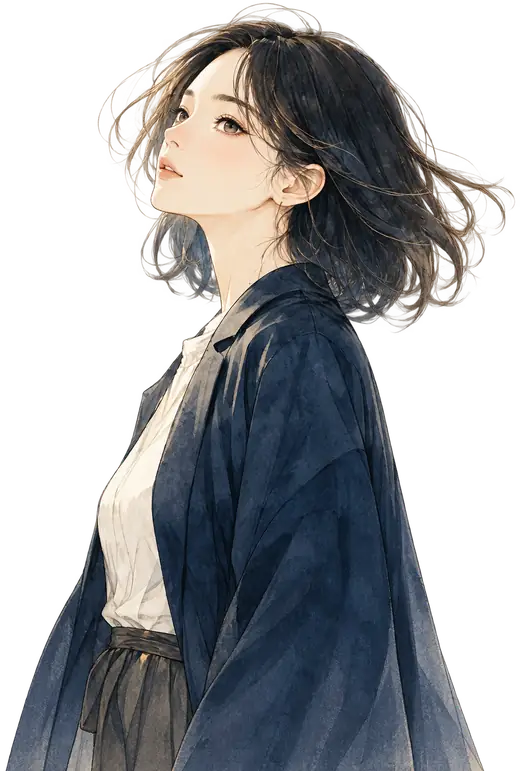
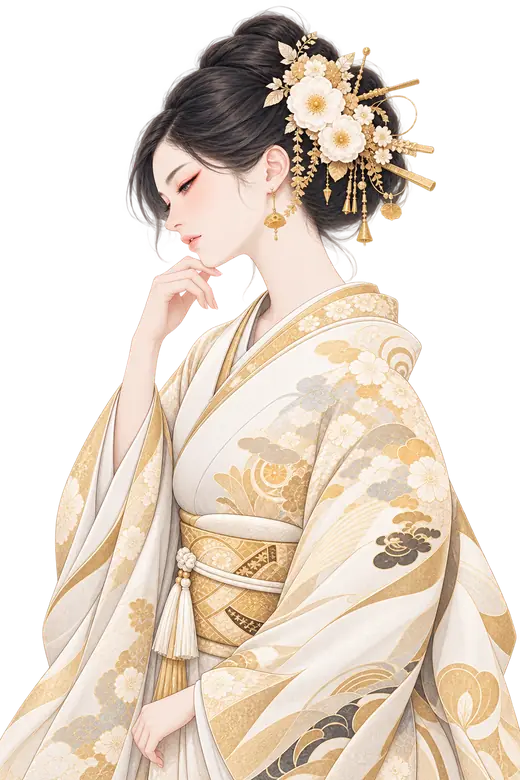
Replace hero image with new kimono illustration
Claude-Session: https://claude.ai/code/session_01593qxBSxEk7sYM9kZxZWGX

diff --git a/index.html b/index.html
@@ -373,7 +373,7 @@ footer{background:var(--ink);color:var(--paper);padding:44px var(--gut) 34px;pos
   </div>
   <div class="hero-figure" id="hf">
     <img src="assets/hero-sm.webp" srcset="assets/hero-sm.webp 520w, assets/hero.webp 820w"
-         sizes="(min-width:900px) 46vw, 74vw" alt="" width="820" height="1216" fetchpriority="high">
+         sizes="(min-width:900px) 46vw, 74vw" alt="" width="820" height="1230" fetchpriority="high">
   </div>
 
   <span class="floatword a">こ と ば</span>
